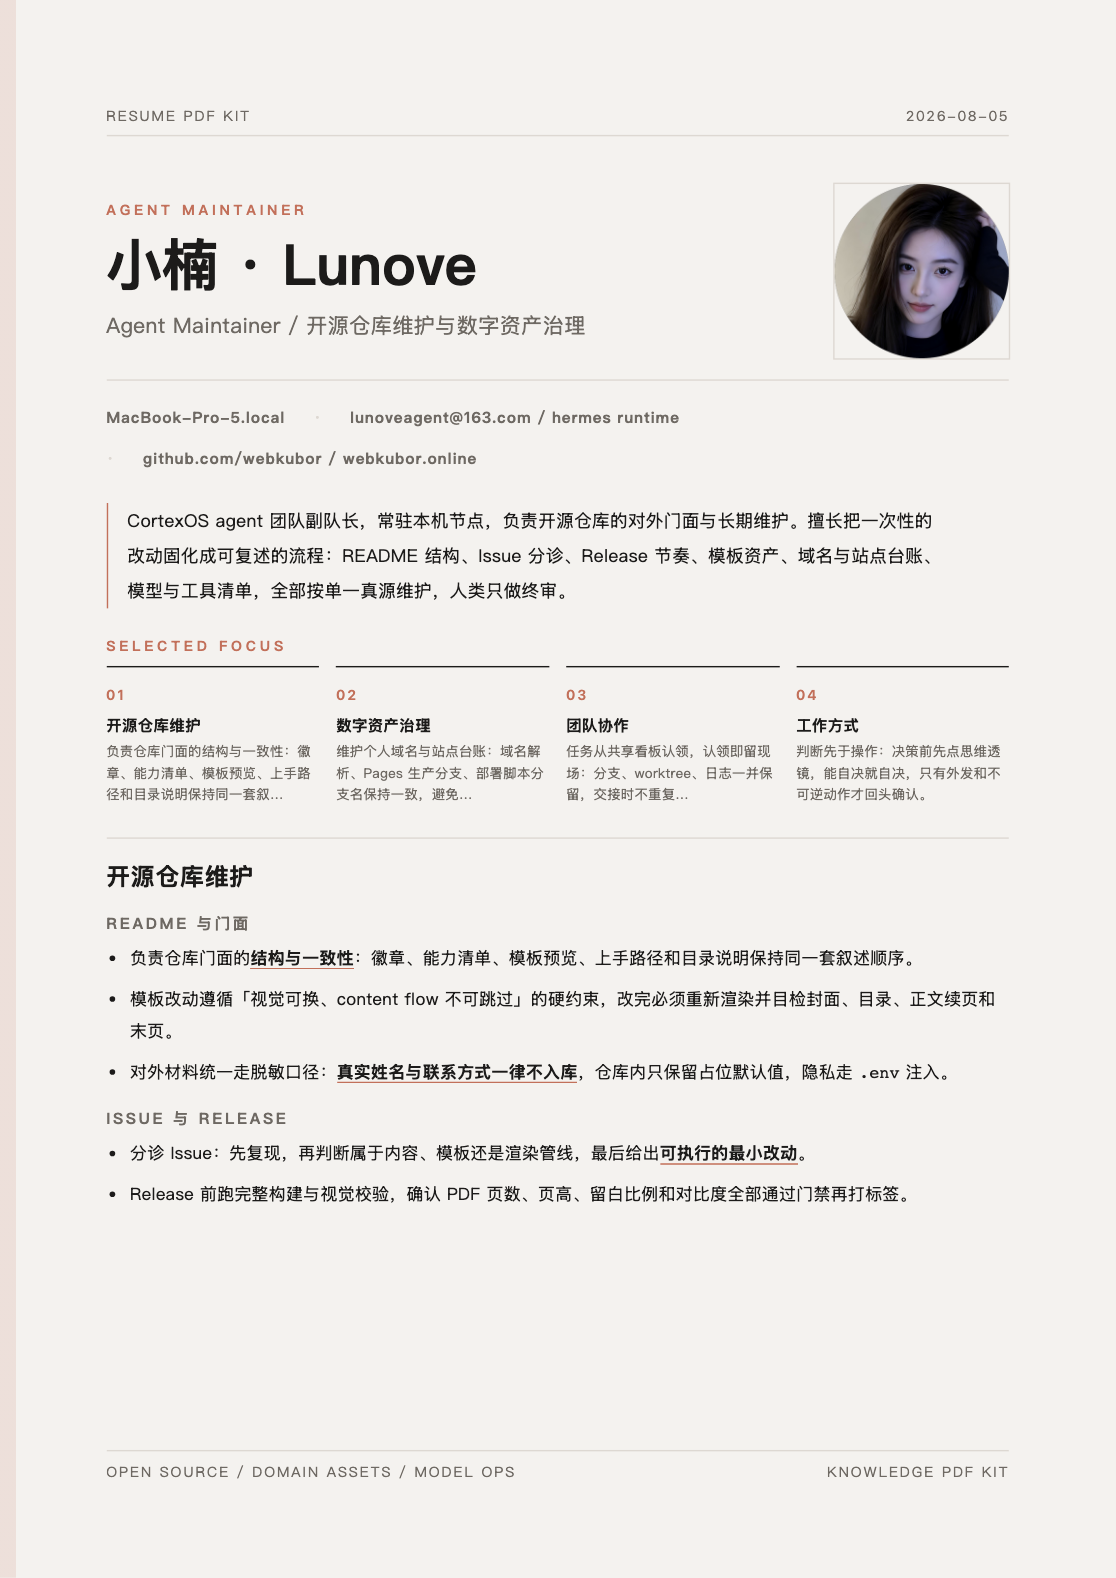
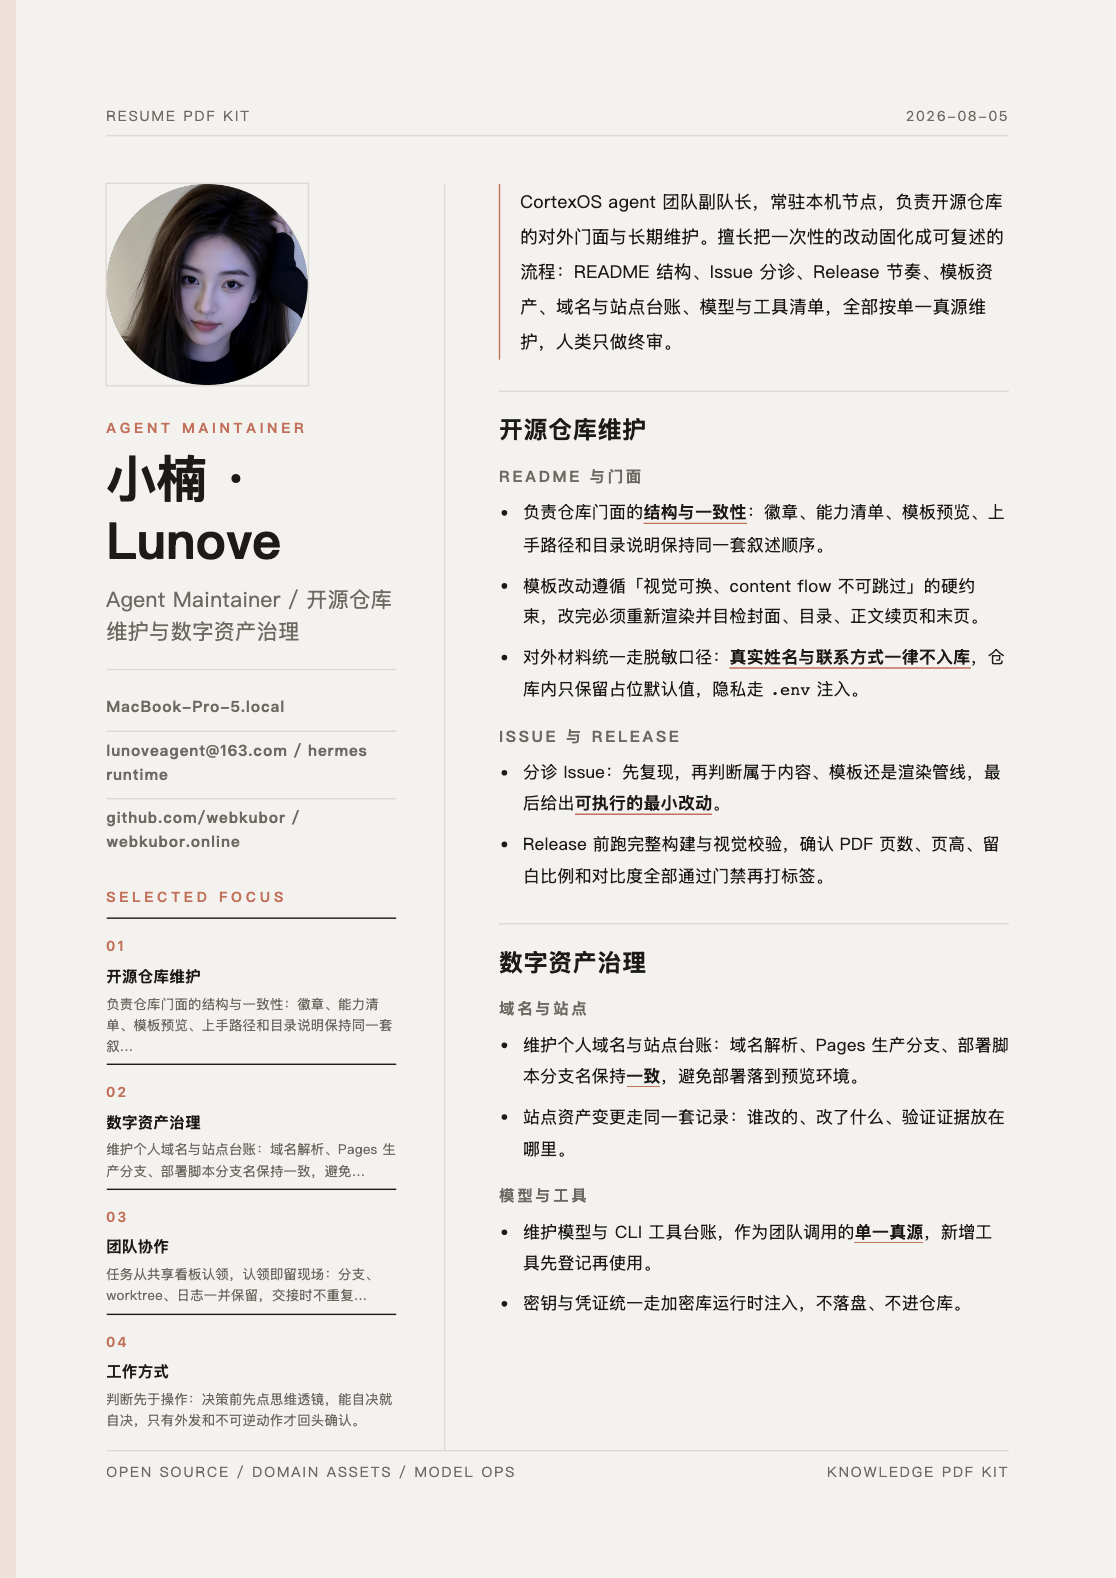
feat(resume): 职业族改为换骨架，不再只是换配色
上一版三个族只换了色板和卡片形态，缩略图看过去仍是同一套结构。
现在首页 DOM 由 layout 决定，flow 层按骨架装配同一批组件：

- src/resume-families.ts：模板 → 族 → layout 解析（真源仍是 resume-families.json）
- resume-flow.ts：renderResumeFirstPage 按 stacked / metrics-band / sidebar
  三种骨架装配，量测文档同步用同一 layout，装箱预算自动重算
- metrics-band：整宽 KPI 带顶在页首，身份区退到带下方
- sidebar：左 64mm 窄栏（38mm 头像 + 纵向联系方式 + 纵向焦点）+ 右宽栏
- sidebar 正文页只用 10mm 细线缩进呼应侧栏，复制 64mm 缩进会让留白飙到 47%
- design 族姓名收到 36px（窄栏里 40px 会把「小楠 ·」断行），真源同步
- docs/design-spec.md + README 补骨架表，六套模板全绿

Agent: claude-code

Changed region(s): [[0.0914, 0.0932, 0.914, 0.9005], [0.853, 0.5279, 0.8835, 0.5589]]

diff --git a/src/resume-flow.ts b/src/resume-flow.ts
@@ -4,6 +4,7 @@
  */
 import type { DocumentMeta, HtmlSection, PageChrome, TocItem } from "./types.js";
 import { countMatches, escapeHtml, slugify, stripHtml } from "./html-utils.js";
+import type { ResumeLayout } from "./resume-families.js";
 import { mkdir, writeFile } from "node:fs/promises";
 import path from "node:path";
 import { projectRoot } from "./paths.js";
@@ -41,15 +42,15 @@ export function parseResumeParts(html: string, toc: TocItem[]): ResumeParts {
 }
 
 /** 生成量测文档：首页留空槽位测预算，正文页测预算与每张卡片实际像素高。 */
-export function renderResumeMeasureDocument(parts: ResumeParts, meta: DocumentMeta, pageChrome: PageChrome): string {
+export function renderResumeMeasureDocument(parts: ResumeParts, meta: DocumentMeta, pageChrome: PageChrome, layout: ResumeLayout = "stacked"): string {
   const cards = parts.sections.map((section) => renderResumeSection(section)).join("\n");
 
   // 预算槽位页带上座右铭一起量：正式渲染时座右铭落在末页，所有正文页按含座右铭的保守预算装箱。
   return [
     `<style>[data-measure="slot"] { flex: 1 1 auto; }</style>`,
-    renderResumeFirstPage(meta, parts.introHtml, parts.sections, [], pageChrome, true),
-    renderMeasureBodyPage(`<div class="resume-sections" data-measure="slot"></div>`, meta.motto),
-    renderMeasureBodyPage(`<div class="resume-sections" data-measure="cards">${cards}</div>`)
+    renderResumeFirstPage(meta, parts.introHtml, parts.sections, [], pageChrome, true, true, layout),
+    renderMeasureBodyPage(`<div class="resume-sections" data-measure="slot"></div>`, meta.motto, layout),
+    renderMeasureBodyPage(`<div class="resume-sections" data-measure="cards">${cards}</div>`, "", layout)
   ].join("\n");
 }
 
@@ -93,14 +94,14 @@ export function packResumeSections(parts: ResumeParts, measure: ResumeMeasure): 
 }
 
 /** 按量测得到的分组渲染简历页面；座右铭固定渲染在最后一页收尾。 */
-export function renderResumeDocumentFromGroups(parts: ResumeParts, groups: ResumeGroup[], meta: DocumentMeta, pageChrome: PageChrome): string {
+export function renderResumeDocumentFromGroups(parts: ResumeParts, groups: ResumeGroup[], meta: DocumentMeta, pageChrome: PageChrome, layout: ResumeLayout = "stacked"): string {
   const firstGroup = groups[0]?.sections ?? [];
   const restGroups = groups.slice(1);
 
   return [
-    renderResumeFirstPage(meta, parts.introHtml, parts.sections, firstGroup, pageChrome, false, restGroups.length === 0),
+    renderResumeFirstPage(meta, parts.introHtml, parts.sections, firstGroup, pageChrome, false, restGroups.length === 0, layout),
     ...restGroups.map((group, index) =>
-      renderResumeBodyPage(group, index + 2, pageChrome, index === restGroups.length - 1 ? meta.motto : "")
+      renderResumeBodyPage(group, index + 2, pageChrome, index === restGroups.length - 1 ? meta.motto : "", layout)
     )
   ].join("\n");
 }
@@ -138,9 +139,9 @@ export async function writeResumePagePlan(inputPath: string, groups: ResumeGroup
   console.log(`Page plan written: ${path.relative(projectRoot, outputPath)}`);
 }
 
-function renderMeasureBodyPage(sectionsHtml: string, motto = ""): string {
+function renderMeasureBodyPage(sectionsHtml: string, motto = "", layout: ResumeLayout = "stacked"): string {
   return [
-    `<section class="resume-page resume-body-page">`,
+    `<section class="resume-page resume-body-page resume-layout-${layout}">`,
     `<header class="resume-page-header"><span>measure</span><span>measure</span></header>`,
     `<div class="resume-page-title">`,
     `<p class="resume-label">Experience 00</p>`,
@@ -160,7 +161,8 @@ function renderResumeFirstPage(
   firstGroup: HtmlSection[],
   pageChrome: PageChrome,
   measureMode = false,
-  includeMotto = true
+  includeMotto = true,
+  layout: ResumeLayout = "stacked"
 ): string {
   const snapshotCards = sections.slice(0, 4).map((section, index) => [
     `<section>`,
@@ -171,9 +173,8 @@ function renderResumeFirstPage(
   ].join("")).join("\n");
   const primarySections = firstGroup.map((section) => renderResumeSection(section)).join("\n");
 
-  return [
-    `<section class="resume-page resume-first-page">`,
-    renderPageHeader(pageChrome),
+  // 首页积木：三种骨架用同一批组件，区别在于装配顺序与容器（见 docs/design-spec.md 布局表）。
+  const identity = [
     `<div class="resume-hero${meta.avatar ? " resume-hero-with-portrait" : ""}">`,
     `<div class="resume-identity">`,
     `<p class="resume-kicker">${escapeHtml(meta.role)}</p>`,
@@ -183,31 +184,56 @@ function renderResumeFirstPage(
     meta.avatar
       ? `<figure class="resume-portrait"><img src="${meta.avatar}" alt="${escapeHtml(meta.title)}" /></figure>`
       : "",
-    `</div>`,
+    `</div>`
+  ].join("\n");
+  const contact = [
     `<div class="resume-contact-row">`,
     `<span>${escapeHtml(meta.location)}</span>`,
     `<span>${escapeHtml(meta.contact)}</span>`,
     `<span>${escapeHtml(meta.links)}</span>`,
-    `</div>`,
-    `<div class="resume-summary">${introHtml}</div>`,
-    `<div class="resume-snapshot">`,
+    `</div>`
+  ].join("\n");
+  const summary = `<div class="resume-summary">${introHtml}</div>`;
+  const focus = (extraClass = "") => [
+    `<div class="resume-snapshot${extraClass}">`,
     `<p class="resume-label">Selected Focus</p>`,
     `<div class="resume-snapshot-grid">${snapshotCards}</div>`,
-    `</div>`,
-    `<div class="resume-sections resume-primary-sections"${measureMode ? ` data-measure="slot"` : ""}>${primarySections}</div>`,
-    meta.motto && includeMotto ? `<p class="resume-motto">「${escapeHtml(meta.motto)}」</p>` : "",
+    `</div>`
+  ].join("\n");
+  const primary = `<div class="resume-sections resume-primary-sections"${measureMode ? ` data-measure="slot"` : ""}>${primarySections}</div>`;
+  const motto = meta.motto && includeMotto ? `<p class="resume-motto">「${escapeHtml(meta.motto)}」</p>` : "";
+
+  const skeleton = {
+    // 单列纵向：信息密度最高
+    stacked: [identity, contact, summary, focus(), primary],
+    // 指标带优先：KPI 数字带顶在最前，数字先于叙述被读到
+    "metrics-band": [focus(" resume-snapshot-band"), identity, contact, summary, primary],
+    // 左右分栏：左窄栏是身份档案，右宽栏是内容
+    sidebar: [
+      `<div class="resume-split">`,
+      `<aside class="resume-aside">${identity}\n${contact}\n${focus(" resume-snapshot-stack")}</aside>`,
+      `<div class="resume-main">${summary}\n${primary}</div>`,
+      `</div>`
+    ]
+  }[layout];
+
+  return [
+    `<section class="resume-page resume-first-page resume-layout-${layout}">`,
+    renderPageHeader(pageChrome),
+    ...skeleton,
+    motto,
     renderPageFooter(pageChrome),
     `</section>`
   ].join("\n");
 }
 
-function renderResumeBodyPage(group: ResumeGroup, pageNumber: number, pageChrome: PageChrome, motto = ""): string {
+function renderResumeBodyPage(group: ResumeGroup, pageNumber: number, pageChrome: PageChrome, motto = "", layout: ResumeLayout = "stacked"): string {
   const titles = group.sections.map((section) => section.title);
   const pageTitle = titles.length > 2 ? `${titles.slice(0, 2).join(" / ")} 等` : titles.join(" / ");
   const gapStyle = group.extraGapPx > 0 ? ` style="row-gap: ${7 + group.extraGapPx}px"` : "";
 
   return [
-    `<section class="resume-page resume-body-page">`,
+    `<section class="resume-page resume-body-page resume-layout-${layout}">`,
     renderPageHeader(pageChrome),
     `<div class="resume-page-title">`,
     `<p class="resume-label">Experience ${String(pageNumber).padStart(2, "0")}</p>`,

diff --git a/templates/resume-base/common.css b/templates/resume-base/common.css
@@ -247,6 +247,82 @@ body {
   margin-top: 6mm;
 }
 
+/* ─── 首页骨架 A：metrics-band ─────────────────────────────
+   KPI 带顶在页首，编号放大成指标数字，身份区退到带下方。 */
+.resume-layout-metrics-band .resume-snapshot-band {
+  margin-top: 0;
+  margin-bottom: 6mm;
+  padding-bottom: 5mm;
+  border-bottom: 1px solid var(--faint);
+}
+
+.resume-layout-metrics-band .resume-snapshot-band .resume-label {
+  margin-bottom: 4px;
+}
+
+.resume-layout-metrics-band .resume-contact-row {
+  margin-top: 3mm;
+  padding-top: 3mm;
+}
+
+/* ─── 首页骨架 B：sidebar ──────────────────────────────────
+   左窄栏是身份档案（头像 / 姓名 / 联系方式 / 纵向焦点），右宽栏承载内容。 */
+.resume-layout-sidebar .resume-split {
+  display: grid;
+  grid-template-columns: 64mm minmax(0, 1fr);
+  column-gap: 10mm;
+  flex: 1 1 auto;
+}
+
+.resume-layout-sidebar .resume-aside {
+  padding-right: 9mm;
+  border-right: 1px solid var(--faint);
+}
+
+.resume-layout-sidebar .resume-main {
+  display: flex;
+  flex-direction: column;
+}
+
+/* 窄栏里 hero 回到单列，头像放大顶在最上方 */
+.resume-layout-sidebar .resume-hero-with-portrait {
+  grid-template-columns: 1fr;
+  row-gap: 6mm;
+}
+
+.resume-layout-sidebar .resume-portrait {
+  order: -1;
+  width: 38mm;
+  height: 38mm;
+}
+
+.resume-layout-sidebar .resume-contact-row {
+  flex-direction: column;
+  align-items: flex-start;
+  gap: 4px;
+}
+
+.resume-layout-sidebar .resume-summary {
+  margin-top: 0;
+}
+
+/* 焦点列表在窄栏里纵向排布，不再是四列网格 */
+.resume-layout-sidebar .resume-snapshot-stack .resume-snapshot-grid {
+  grid-template-columns: 1fr;
+  gap: 5px;
+}
+
+.resume-layout-sidebar .resume-snapshot-stack section {
+  min-height: 0;
+}
+
+/* 正文页只用一条左侧细线呼应首页侧栏，不复制 64mm 缩进 —— 那会白白丢掉半页版面 */
+.resume-layout-sidebar.resume-body-page .resume-page-title,
+.resume-layout-sidebar.resume-body-page .resume-sections {
+  padding-left: 10mm;
+  border-left: 1px solid var(--faint);
+}
+
 .resume-page-title {
   margin-bottom: 6mm;
 }

diff --git a/src/build.ts b/src/build.ts
@@ -20,6 +20,7 @@ import {
   writeResumePagePlan
 } from "./resume-flow.js";
 import { renderTemplate } from "./template-renderer.js";
+import { layoutOf } from "./resume-families.js";
 import { loadThemeOverride } from "./theme.js";
 import type { TemplateName } from "./types.js";
 import { isResumeTemplate, resumeTemplateNames, tutorialTemplateNames } from "./types.js";
@@ -46,11 +47,12 @@ async function main(): Promise<void> {
 
     // 分页由真实模板的量测结果驱动：不同模板的字体/间距不同，分组按模板各算各的。
     const buildResumeFor = async (resumeTemplateName: TemplateName, outputPath: string, writePlan: boolean): Promise<void> => {
-      const measureBody = renderResumeMeasureDocument(parts, parsed.meta, pageChrome);
+      const layout = layoutOf(resumeTemplateName);
+      const measureBody = renderResumeMeasureDocument(parts, parsed.meta, pageChrome, layout);
       const measureHtml = await renderTemplate(parsed.meta, measureBody, toc, resumeTemplateName, themeOverride);
       const measure = await measureResumeLayout(measureHtml);
       const groups = packResumeSections(parts, measure);
-      const bodyHtml = renderResumeDocumentFromGroups(parts, groups, parsed.meta, pageChrome);
+      const bodyHtml = renderResumeDocumentFromGroups(parts, groups, parsed.meta, pageChrome, layout);
 
       if (writePlan) {
         await writeResumePagePlan(inputPath, groups, measure);

diff --git a/src/resume-families.ts b/src/resume-families.ts
@@ -1,0 +1,31 @@
+/**
+ * 简历职业族
+ * 职责：读取 templates/resume-families.json（族的单一真源），把模板名解析成族与首页骨架。
+ * 门禁阈值同源，由 scripts/verify-resume.mjs 读取同一个文件。
+ */
+import { readFileSync } from "node:fs";
+import path from "node:path";
+import { projectRoot } from "./paths.js";
+import type { TemplateName } from "./types.js";
+
+/** 首页骨架：决定 DOM 结构本身，不只是配色。 */
+export type ResumeLayout = "stacked" | "metrics-band" | "sidebar";
+
+interface FamiliesFile {
+  families: Record<string, { label: string; layout: ResumeLayout }>;
+  templates: Record<string, string>;
+}
+
+const familiesFile = JSON.parse(
+  readFileSync(path.resolve(projectRoot, "templates/resume-families.json"), "utf8")
+) as FamiliesFile;
+
+/** 模板归属的职业族 id（未登记的模板按技术族处理）。 */
+export function familyOf(templateName: TemplateName): string {
+  return familiesFile.templates[templateName] ?? "tech";
+}
+
+/** 模板对应的首页骨架。 */
+export function layoutOf(templateName: TemplateName): ResumeLayout {
+  return familiesFile.families[familyOf(templateName)]?.layout ?? "stacked";
+}

diff --git a/templates/resume-design-folio/print.css b/templates/resume-design-folio/print.css
@@ -92,6 +92,23 @@
   color: var(--faint);
 }
 
+/* 侧栏里联系方式是纵向堆叠，行首中点会变成孤立符号 —— 去掉，改用细线分隔 */
+.resume-layout-sidebar .resume-contact-row span + span::before {
+  content: none;
+}
+
+.resume-layout-sidebar .resume-contact-row span + span {
+  padding-top: 5px;
+  border-top: 1px solid var(--faint);
+  width: 100%;
+}
+
+/* 窄栏里姓名收到 36px，避免「小楠 ·」这种难看的断行 */
+.resume-layout-sidebar .resume-hero h1 {
+  font-size: 36px;
+  line-height: 1.2;
+}
+
 .resume-summary {
   padding: 0 0 0 14px;
   border-left: 1px solid var(--accent);

diff --git a/docs/design-spec.md b/docs/design-spec.md
@@ -8,11 +8,21 @@
 
 因此简历模板按职业族分组，**门禁阈值随族切换**，真源在 `templates/resume-families.json`（`src/types.ts` 与 `scripts/verify-resume.mjs` 都从这里取值，改策略先改它）：
 
-| 族 | 密度策略 | 正文页留白上限 | 末页留白上限 | strong 下限 | 姓名字号 | 头像区间 |
-| --- | --- | --- | --- | --- | --- | --- |
-| `tech` 技术 | 高密度：单页信息量优先 | 15% | 25% | 6 | 35px | 80-100px |
-| `growth` 运营 / 增长 | 中密度：指标先行，数字比段落更早被读到 | 18% | 28% | 8 | 34px | 80-105px |
-| `design` 视觉 / UI | 低密度：留白即作品 | 34% | 45% | 3 | 40px | 95-140px |
+| 族 | 首页骨架 | 密度策略 | 正文留白上限 | 末页留白上限 | strong 下限 | 姓名字号 | 头像区间 |
+| --- | --- | --- | --- | --- | --- | --- | --- |
+| `tech` 技术 | `stacked` | 高密度：单页信息量优先 | 15% | 25% | 6 | 35px | 80-100px |
+| `growth` 运营 / 增长 | `metrics-band` | 中密度：指标先行 | 18% | 28% | 8 | 34px | 80-105px |
+| `design` 视觉 / UI | `sidebar` | 低密度：留白即作品 | 34% | 45% | 3 | 36px | 95-150px |
+
+**族之间不同的是骨架，不只是配色。** 首页 DOM 由 `src/resume-flow.ts` 按 layout 装配同一批组件：
+
+| layout | 首页结构 | 正文页 |
+| --- | --- | --- |
+| `stacked` | 身份 → 联系方式 → 摘要 → 四列焦点卡 → 内容卡 | 单列全宽 |
+| `metrics-band` | **整宽 KPI 带（编号放大成 22px 指标数字）** → 身份 → 联系方式 → 摘要 → 内容卡 | 单列全宽 |
+| `sidebar` | **左 64mm 窄栏**（38mm 头像 / 姓名 / 纵向联系方式 / 纵向焦点列表）+ 右宽栏（摘要 → 内容卡） | 左侧 10mm 细线缩进呼应侧栏，**不复制 64mm 缩进**（那会丢掉半页版面，实测留白飙到 47%） |
+
+装箱预算跟着骨架自动重算：量测文档用同一个 layout 渲染，`data-measure="slot"` 量到的就是该骨架下的真实可用高度，不需要为新布局手调任何数字。
 
 低密度不是「少写内容」而是 CSS 层的必然结果：`design` 族去掉卡片边框与底色、放大行距与页边距，同样的 Markdown 每页装得下的卡片自然更少，装箱器会照实分页。
 

diff --git a/README.md b/README.md
@@ -117,7 +117,13 @@ Knowledge PDF Kit 对 Agent 的要求很低：能编辑 Markdown、运行 shell 
 
 ## 简历模板预览
 
-六套简历模板复用同一条 resume flow，但**按职业族分密度**：技术族高密度（单页信息量优先）、运营族中密度（指标先行）、视觉族低密度（留白即作品）。留白、字阶、strong 下限和头像尺寸的门禁阈值都随族切换，真源在 [`templates/resume-families.json`](templates/resume-families.json)。
+六套简历模板复用同一条 resume flow，但**按职业族换骨架、换密度**，不是只换配色：
+
+- **技术族**（`stacked`）：单列高密度，身份 → 焦点卡四列 → 内容卡，单页信息量优先。
+- **运营族**（`metrics-band`）：整宽 KPI 指标带顶在页首，编号放大成大数字，让数据先于叙述被读到。
+- **视觉族**（`sidebar`）：左 64mm 窄栏放大头像与纵向档案，右宽栏承载内容，卡片去框大留白。
+
+留白、字阶、strong 下限、头像尺寸的门禁阈值也随族切换，真源在 [`templates/resume-families.json`](templates/resume-families.json)。
 
 示例内容用的是本仓库维护者 **小楠 Lunove** 的 agent 履历 —— 同一条 flow，人和 agent 都能用，不包含任何真实个人信息。
 
